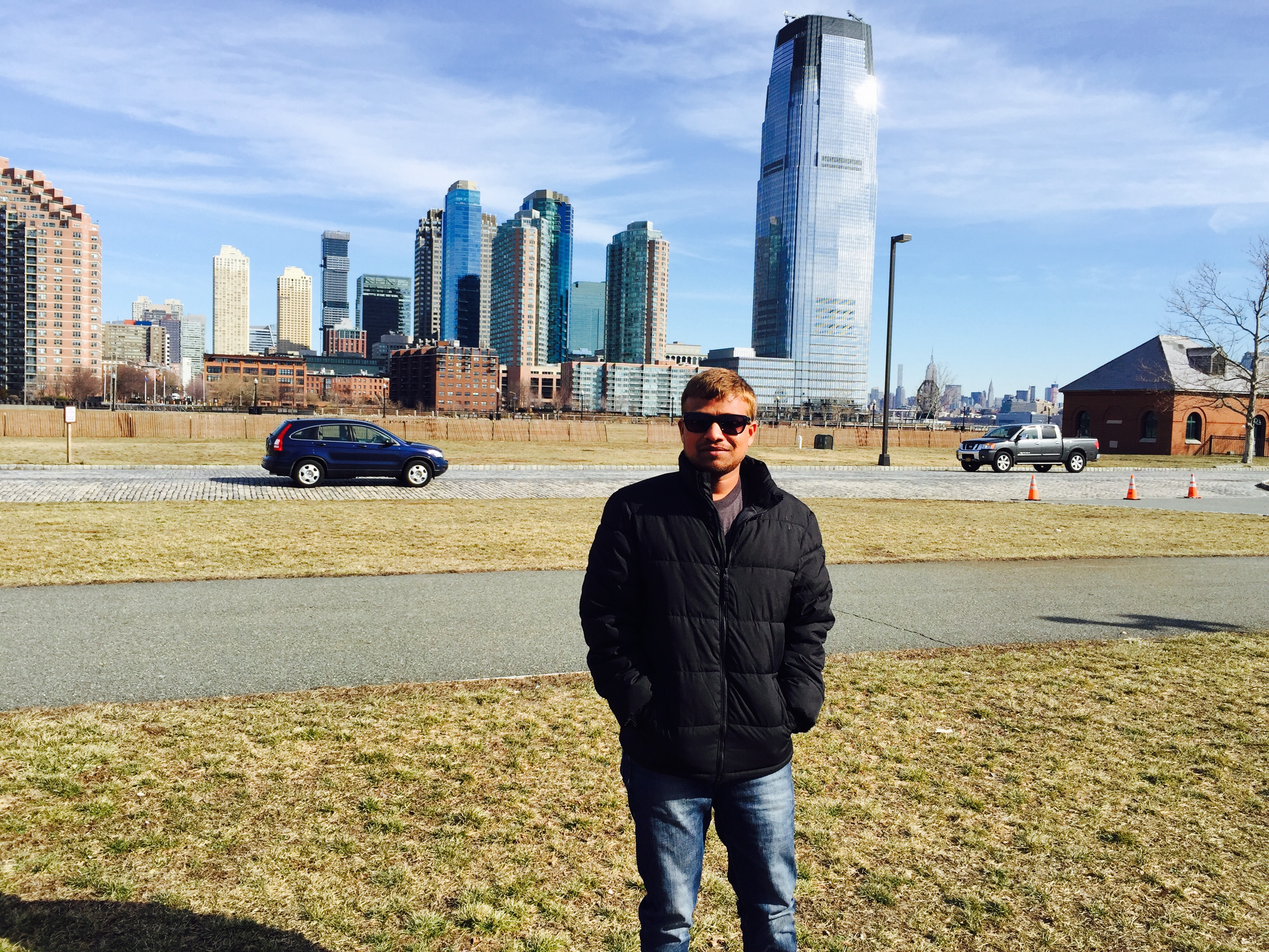
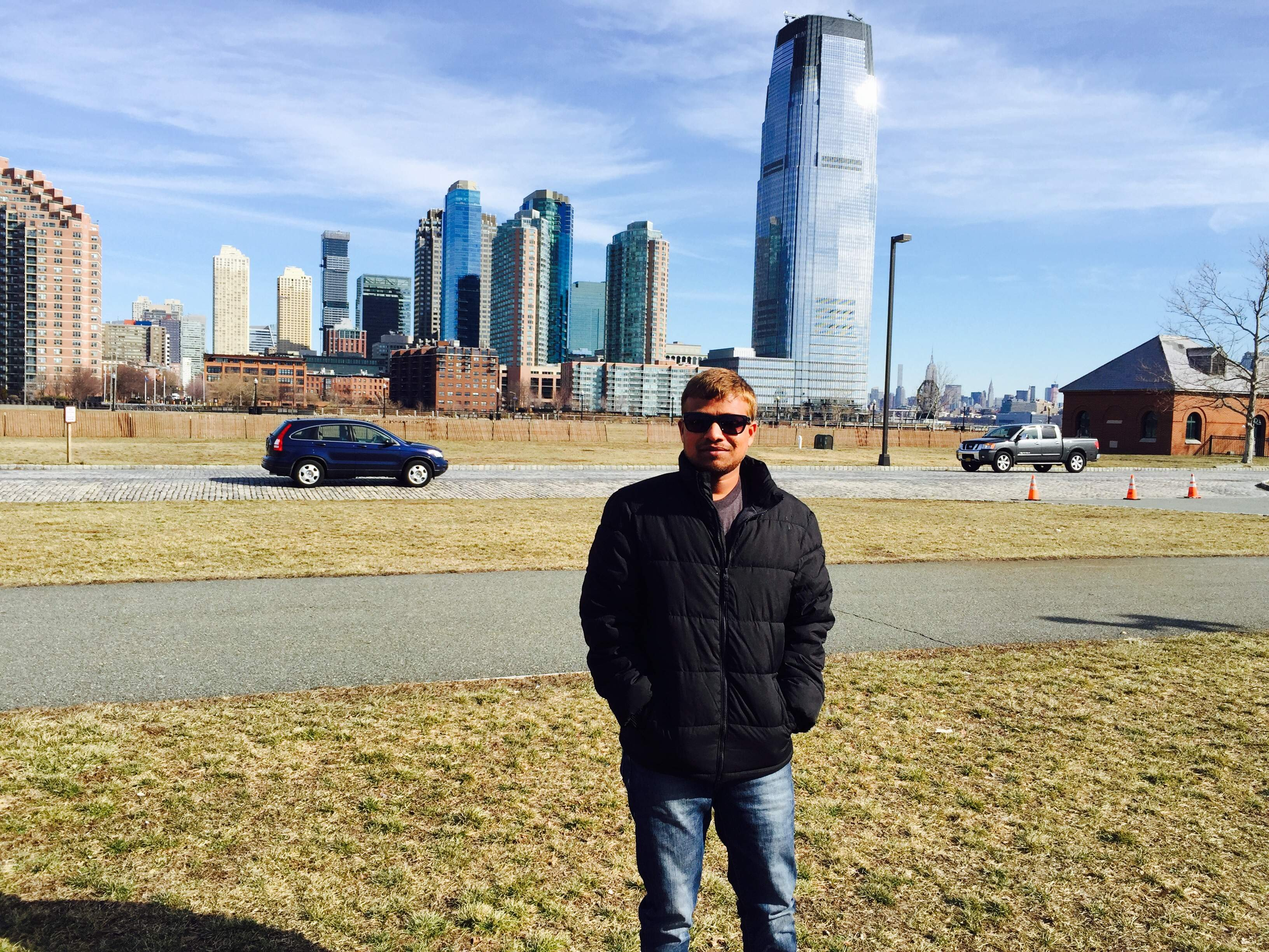
reduced the file size of the image in assests and added some components

diff --git a/src/containers/Projects.js b/src/containers/Projects.js
@@ -1,12 +1,14 @@
 import React, { Component }  from 'react'
 import Container from '../theme/grid/Container'
+import MySkills from '../components/SkillsComponent/MySkills'
 
 export default class Projects extends Component {
 	render(){
 		return(
 			<Container>
-				<h1>Nitesh Projects</h1>
+				<h1 className="project-title-wrapper" > Nitesh Projects</h1>
+				<MySkills />
 			</Container>
-			)
+			);
 }	
 }

diff --git a/src/components/SkillsComponent/MySkills.js b/src/components/SkillsComponent/MySkills.js
@@ -1,0 +1,11 @@
+import React, { Component } from 'react'
+
+export default class MySkills extends Component {
+    render() {
+        return(
+            <div className="Container">
+                
+            </div>
+        );
+    }
+}

diff --git a/src/components/NavigationBar/NavigationBar.css b/src/components/NavigationBar/NavigationBar.css
@@ -5,7 +5,7 @@
 }
 
 .nav-bar-wrapper .nav-bar {
-    background-color: #f1f1f1;
+    /* background-color: #f1f1f1; */
     margin: 10px;
     padding: 10px;
     font-size: 25px;

diff --git a/src/containers/container.css b/src/containers/container.css
@@ -4,3 +4,7 @@
     
 
 }
+
+.project-title-wrapper {
+    padding-top: 100px;
+}
